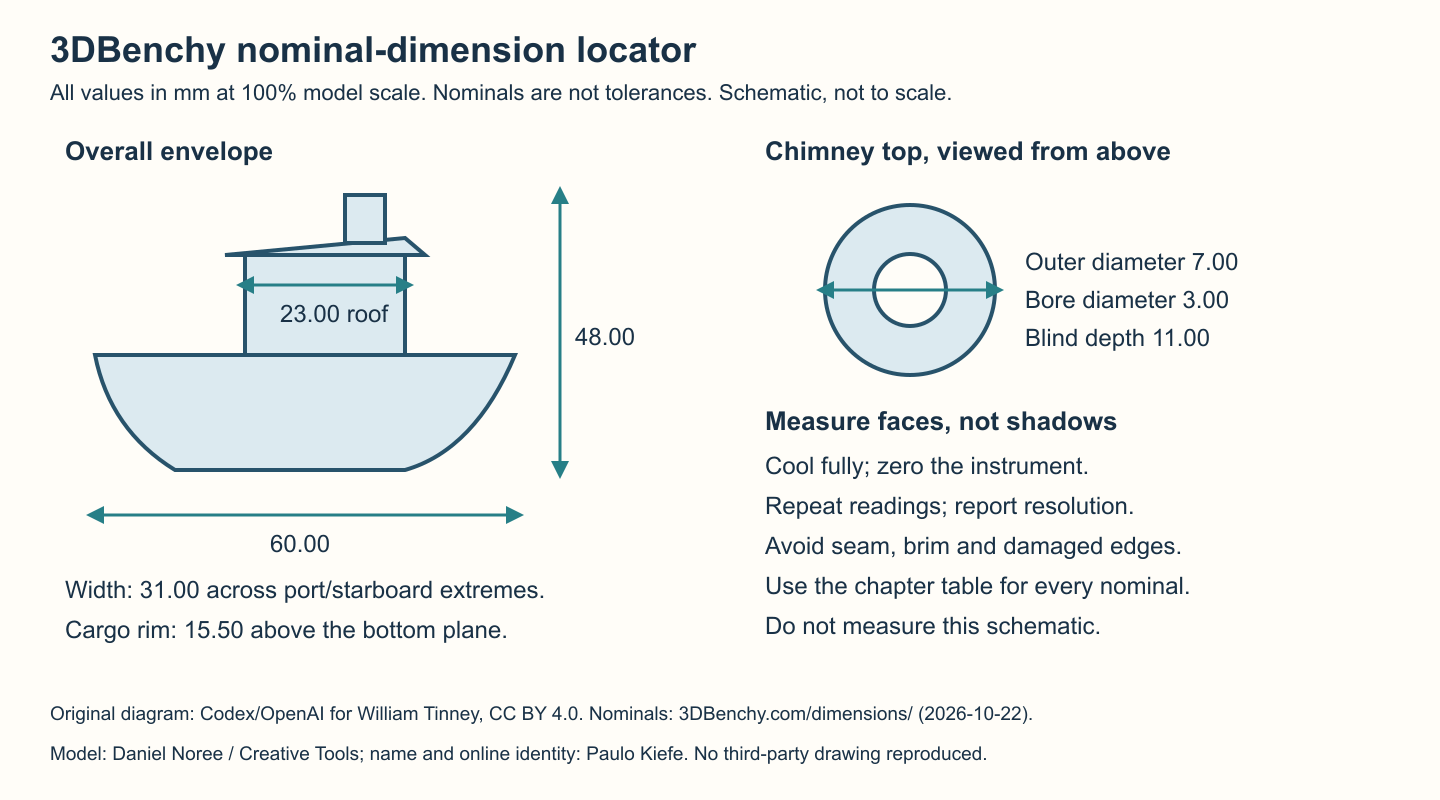
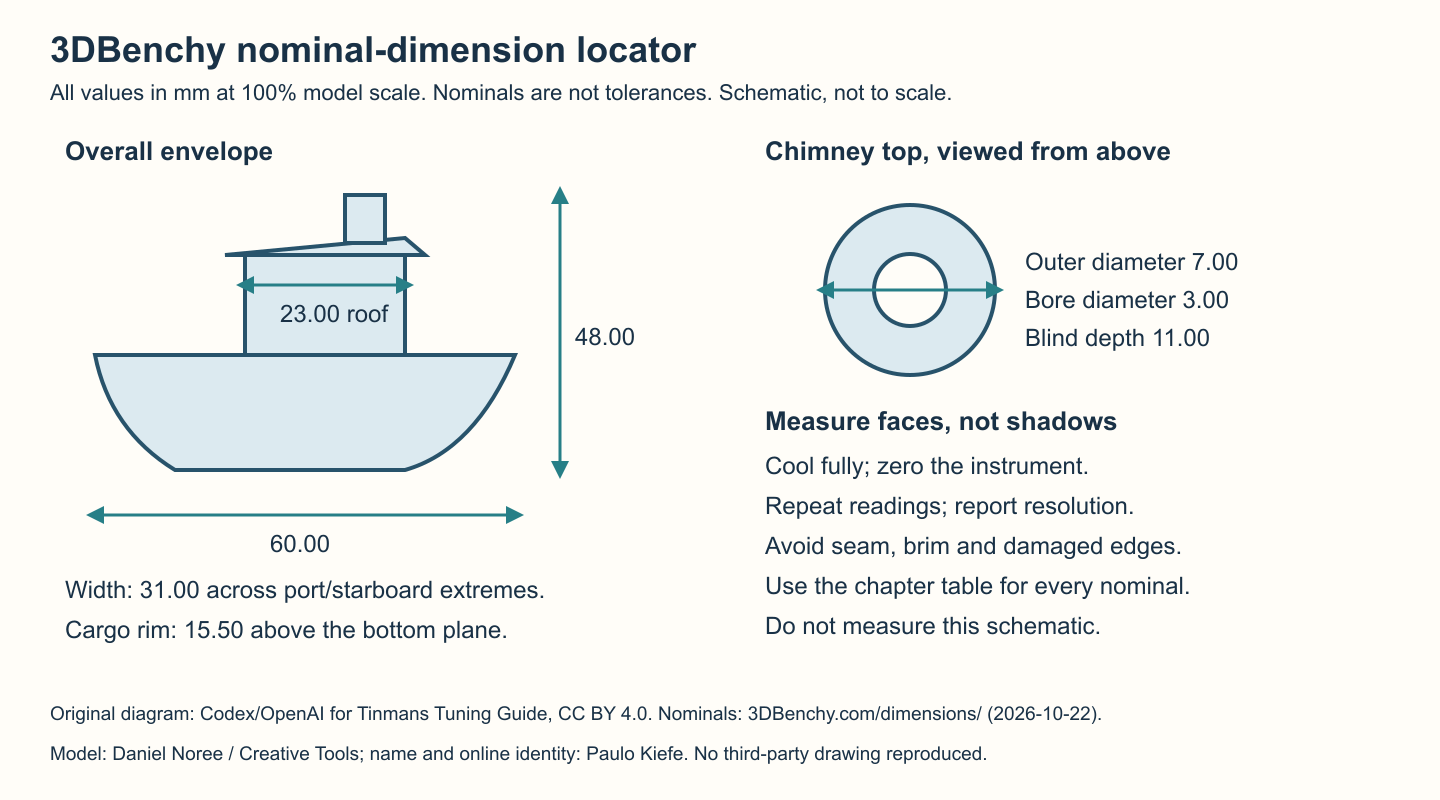
Remove the maintainer's personal name from credits and captions
Credit the project maintainer by role instead of by name in README,
CREDITS, the asset provenance notes, the Benchy chapter captions, the two
Benchy diagrams' footers (PNGs re-rendered) and the PDF metadata and
front matter. This commit is separate so it can be dropped if the
maintainer prefers to keep the named credit.

Changed region(s): [[0.25, 0.875, 0.7812, 0.9062]]

diff --git a/scripts/build_pdf.py b/scripts/build_pdf.py
@@ -701,7 +701,7 @@ def build_pdf(output: Path):
         topMargin=0.65 * inch,
         bottomMargin=0.68 * inch,
         title="Tinmans Tuning Guide",
-        author="William Tinney and Codex by OpenAI",
+        author="Tinmans Tuning Guide maintainers, with Codex by OpenAI and Claude by Anthropic",
         subject="A printer-neutral filament tuning handbook with OrcaSlicer and Tinman settings reference",
         creator="Tinmans Tuning Guide build script",
     )
@@ -724,7 +724,7 @@ def build_pdf(output: Path):
     ))
     story.append(Spacer(1, 0.18 * inch))
     story.append(Paragraph(
-        "Project initiated and experimentally informed by William Tinney. Researched, written, organized, and published with Codex by OpenAI.",
+        "Project initiated and experimentally informed by the Tinman project's maintainer. Researched, written, organized, and published with Codex by OpenAI; the November 2026 edition was revised with Claude by Anthropic.",
         styles["front_subtitle"],
     ))
     story.append(Spacer(1, 0.25 * inch))

diff --git a/assets/README.md b/assets/README.md
@@ -32,19 +32,19 @@
 ## October 22, 2026 Grading Figures
 
 - `benchy-inspection-map.svg` and `benchy-dimension-locator.svg` are original
-  2D explanatory diagrams by Codex/OpenAI, directed by William Tinney, CC BY 4.0.
+  2D explanatory diagrams by Codex/OpenAI, directed by the guide's maintainer, CC BY 4.0.
   Corresponding PNGs are rendered with librsvg. They are not CAD models,
   official drawings or metrically scaled representations. Facts are sourced
   to https://www.3dbenchy.com/features/ and /dimensions/, reviewed 2026-10-22.
 - #3DBenchy model: Daniel Noree / Creative Tools. Name and online identity:
   Paulo Kiefe. Current model license: CC0 1.0, per the official license page.
   No official website illustration is copied or assumed CC0.
-- `field-tests/pet-cf-benchy-foundation-bands.jpg`: William Tinney's original
+- `field-tests/pet-cf-benchy-foundation-bands.jpg`: The maintainer's original
   IMG_6231.HEIC, October 22, 2026, showing a rejected foundation specimen.
-- `field-tests/pet-cf-temperature-unresolved.jpg`: William Tinney's original
+- `field-tests/pet-cf-temperature-unresolved.jpg`: The maintainer's original
   IMG_6237.HEIC, October 22, 2026, showing an unresolved native Tinman/OrcaSlicer
   temperature diagnostic. Tower geometry credit: native calibration contributors.
-- Photographs contributed by William Tinney under the guide's CC BY 4.0
+- Photographs contributed by the guide's maintainer under the guide's CC BY 4.0
   terms at his publication direction. JPEG conversion, publication sizing and
   metadata stripping only; no defect removal or synthetic passing reference.
   Originals remain in the owner's private experiment archive. These photographs
@@ -53,7 +53,7 @@
 ## TinmanX1 Logo
 
 `tinmanx1-thumbnail-logo.png` is the original high-resolution thumbnail icon
-used by the TinmanX1 project. William Tinney identified this as the required
+used by the TinmanX1 project. The maintainer identified this as the required
 logo for the guide cover.
 
 Source asset:
@@ -80,11 +80,11 @@ replaced.
 
 The Airframe composition, calibration-ring motif, typography, light color
 system, and responsive landscape/portrait layouts were created by Codex,
-OpenAI, at William Tinney's direction.
+OpenAI, at the maintainer's direction.
 
 ## Field-Test Photographs
 
-The photographs under `assets/field-tests/` were supplied by William Tinney
+The photographs under `assets/field-tests/` were supplied by the guide's maintainer
 from the documented tuning sessions. They are retained as experimental
 evidence and are captioned with the scope of the result. In particular:
 
@@ -101,7 +101,7 @@ evidence and are captioned with the scope of the result. In particular:
   is on the left and the dried tower is on the right.
 - `field-tests/elegoo-pet-cf-dried-tower-detail.jpg` combines three views of the
   dried tower used to select a working nozzle temperature.
-- Original HEIC photographs: William Tinney, 2026.
+- Original HEIC photographs: the guide's maintainer, 2026.
 - The composites preserve the photographed specimens; only orientation,
   scaling, spacing, and JPEG conversion were applied for publication.
 
@@ -114,5 +114,5 @@ evidence and are captioned with the scope of the result. In particular:
   from the unchanged fourth attempt after a thorough warm soap-and-water plate
   wash and a fresh Vision Miner Nano Polymer application. The tower remained
   attached through PA `0.048` and normal completion.
-- Field camera frames: William Tinney, 2026. The repository copies are
+- Field camera frames: the guide's maintainer, 2026. The repository copies are
   unaltered from the preserved evidence files.

diff --git a/CREDITS.md b/CREDITS.md
@@ -6,7 +6,7 @@ the source material instead of reproducing it.
 
 ## Project Authors
 
-- **William Tinney** initiated the project, supplied the practical tuning
+- **The project's maintainer** initiated the project, supplied the practical tuning
   questions, performed the physical experiments and measurements, documented
   print orientation and results, and directed publication.
 - **Codex by OpenAI** researched the sources, developed the dependency-aware
@@ -18,11 +18,11 @@ the source material instead of reproducing it.
   photographs for publication.
 
 The worked `20.00 mm -> 20.13 mm -> 100.65% -> 20.00 mm` dimensional example
-comes from a controlled calibration performed by William Tinney and analyzed
+comes from a controlled calibration performed by the guide's maintainer and analyzed
 with Codex in September 2026.
 
 The motion-diagnostics field photographs and physical FibreSeek and Prusa CORE
-One L+ experiments were made and supplied by William Tinney. Codex designed the
+One L+ experiments were made and supplied by the guide's maintainer. Codex designed the
 controlled tests, audited the emitted G-code, analyzed the evidence, and
 authored the worked interpretation. All published photographs have their
 device and location metadata removed (two that still carried it were replaced
@@ -31,10 +31,10 @@ in edition 1.1).
 ## Cover Artwork
 
 - The central TinmanX1 thumbnail logo is the original project icon supplied by
-  William Tinney. It is reproduced without redrawing or replacing the mark.
+  the guide's maintainer. It is reproduced without redrawing or replacing the mark.
 - The Airframe composition, calibration-ring motif, typography, light color
   system, responsive landscape/portrait layouts, and production artwork were
-  designed and prepared by Codex, OpenAI, at William Tinney's direction.
+  designed and prepared by Codex, OpenAI, at the maintainer's direction.
 - The editable source, rendered cover, original logo copy, and provenance are
   retained in the repository's `assets` directory.
 
@@ -46,8 +46,8 @@ in edition 1.1).
   and established its online identity. The current official model license is
   [CC0 1.0](https://www.3dbenchy.com/license/); website artwork is not assumed
   to share that license. The guide's locator diagrams are original schematics
-  by Codex/OpenAI for William Tinney, CC BY 4.0, not official drawings.
-- **William Tinney** for the October 22, 2026 Qidi Plus4 / Elegoo PET-CF
+  by Codex/OpenAI for the guide, CC BY 4.0, not official drawings.
+- **The project's maintainer** for the October 22, 2026 Qidi Plus4 / Elegoo PET-CF
   Benchy and temperature-tower field photographs, physical tests, diameter
   measurements, conditioning history and observations. **Codex/OpenAI**
   audited commands/telemetry, interpreted evidence and authored the captions
@@ -64,7 +64,7 @@ in edition 1.1).
   calibration contributors, not to the photographer or guide as model authors.
 - **TinmanX1 contributors** for the source implementation used to document its
   continuous-fiber planning, FibreSeek contracts, Strength Lens, and Wave
-  Overhang extensions. William Tinney directed the practical scope of this
+  Overhang extensions. The maintainer directed the practical scope of this
   documentation; Codex authored the plain-language operational reference.
 - **Kevin O'Connor and the Klipper contributors** for the pressure-advance
   implementation and calibration documentation.

diff --git a/guide/24-benchy-inspection-and-measurement.md b/guide/24-benchy-inspection-and-measurement.md
@@ -36,7 +36,7 @@ separate protocol, not a substitute for quality inspection.
 
 ## Official Feature Checks
 
-![Inspection locations and evidence limits. Original schematic by Codex/OpenAI for William Tinney, CC BY 4.0; feature descriptions from the official 3DBenchy website. Not an official drawing or a passing-print reference.](../assets/benchy-inspection-map.png)
+![Inspection locations and evidence limits. Original schematic by Codex/OpenAI for the guide, CC BY 4.0; feature descriptions from the official 3DBenchy website. Not an official drawing or a passing-print reference.](../assets/benchy-inspection-map.png)
 
 | Feature | Inspect on the fully cooled boat |
 | --- | --- |
@@ -61,7 +61,7 @@ by normal shallow-roof stair stepping.
 All linear values below are millimeters. They are nominal design values,
 not tolerances. Use the official linked drawings to locate measurement faces.
 
-![Overall envelope, roof faces and chimney measurement locations. Original schematic by Codex/OpenAI for William Tinney, CC BY 4.0, using official nominal dimensions. Schematic only: use instruments on the cooled specimen, not the illustration.](../assets/benchy-dimension-locator.png)
+![Overall envelope, roof faces and chimney measurement locations. Original schematic by Codex/OpenAI for the guide, CC BY 4.0, using official nominal dimensions. Schematic only: use instruments on the cooled specimen, not the illustration.](../assets/benchy-dimension-locator.png)
 
 | Item | Nominal |
 | --- | --- |
@@ -111,7 +111,7 @@ representative validation stages still require their own evidence.
 
 ## Photographed Foundation Failure: Do Not Grade by Completion Alone
 
-![Rejected foundation example: a completed Elegoo PET-CF Benchy with open-looking chimney bands and irregular cabin tracks. Photograph: William Tinney, IMG_6231, 2026-10-22. Model: Daniel Noree / Creative Tools, 3DBenchy.com. This is a defect example, not an official reference print.](../assets/field-tests/pet-cf-benchy-foundation-bands.jpg)
+![Rejected foundation example: a completed Elegoo PET-CF Benchy with open-looking chimney bands and irregular cabin tracks. Photograph: the guide's maintainer, IMG_6231, 2026-10-22. Model: Daniel Noree / Creative Tools, 3DBenchy.com. This is a defect example, not an official reference print.](../assets/field-tests/pet-cf-benchy-foundation-bands.jpg)
 
 The photographed boat completed on a Qidi Plus4 with a Micro Swiss CM2
 0.6 mm nozzle, 0.24 mm body layers, 0.30 mm first layer, 275 C nozzle,
@@ -133,7 +133,7 @@ before choosing a one-variable comparison.
 The inspection and dimension locators are original explanatory schematics,
 not copies of the official website's drawings and not replacement CAD/STL
 files. Editable SVG sources and publication PNGs are retained in `assets`.
-The field photograph was made and supplied by William Tinney; publication
+The field photograph was made and supplied by the guide's maintainer; publication
 conversion removes device/location metadata without altering the specimen.
 
 Daniel Noree designed #3DBenchy while at Creative Tools. Paulo Kiefe named it

diff --git a/README.md b/README.md
@@ -204,7 +204,7 @@ The original text and diagrams in this repository are licensed under
 [CC BY 4.0](LICENSE). Source projects retain their own licenses. See
 [CREDITS.md](CREDITS.md) and [SOURCES.md](SOURCES.md) for attribution.
 
-Project initiated and experimentally informed by William Tinney. Researched,
+Project initiated and experimentally informed by the Tinman project's maintainer. Researched,
 written, organized, and published with Codex by OpenAI; the November 2026
 edition was revised with Claude by Anthropic. No source author, project, or
 company listed here has endorsed this guide.
